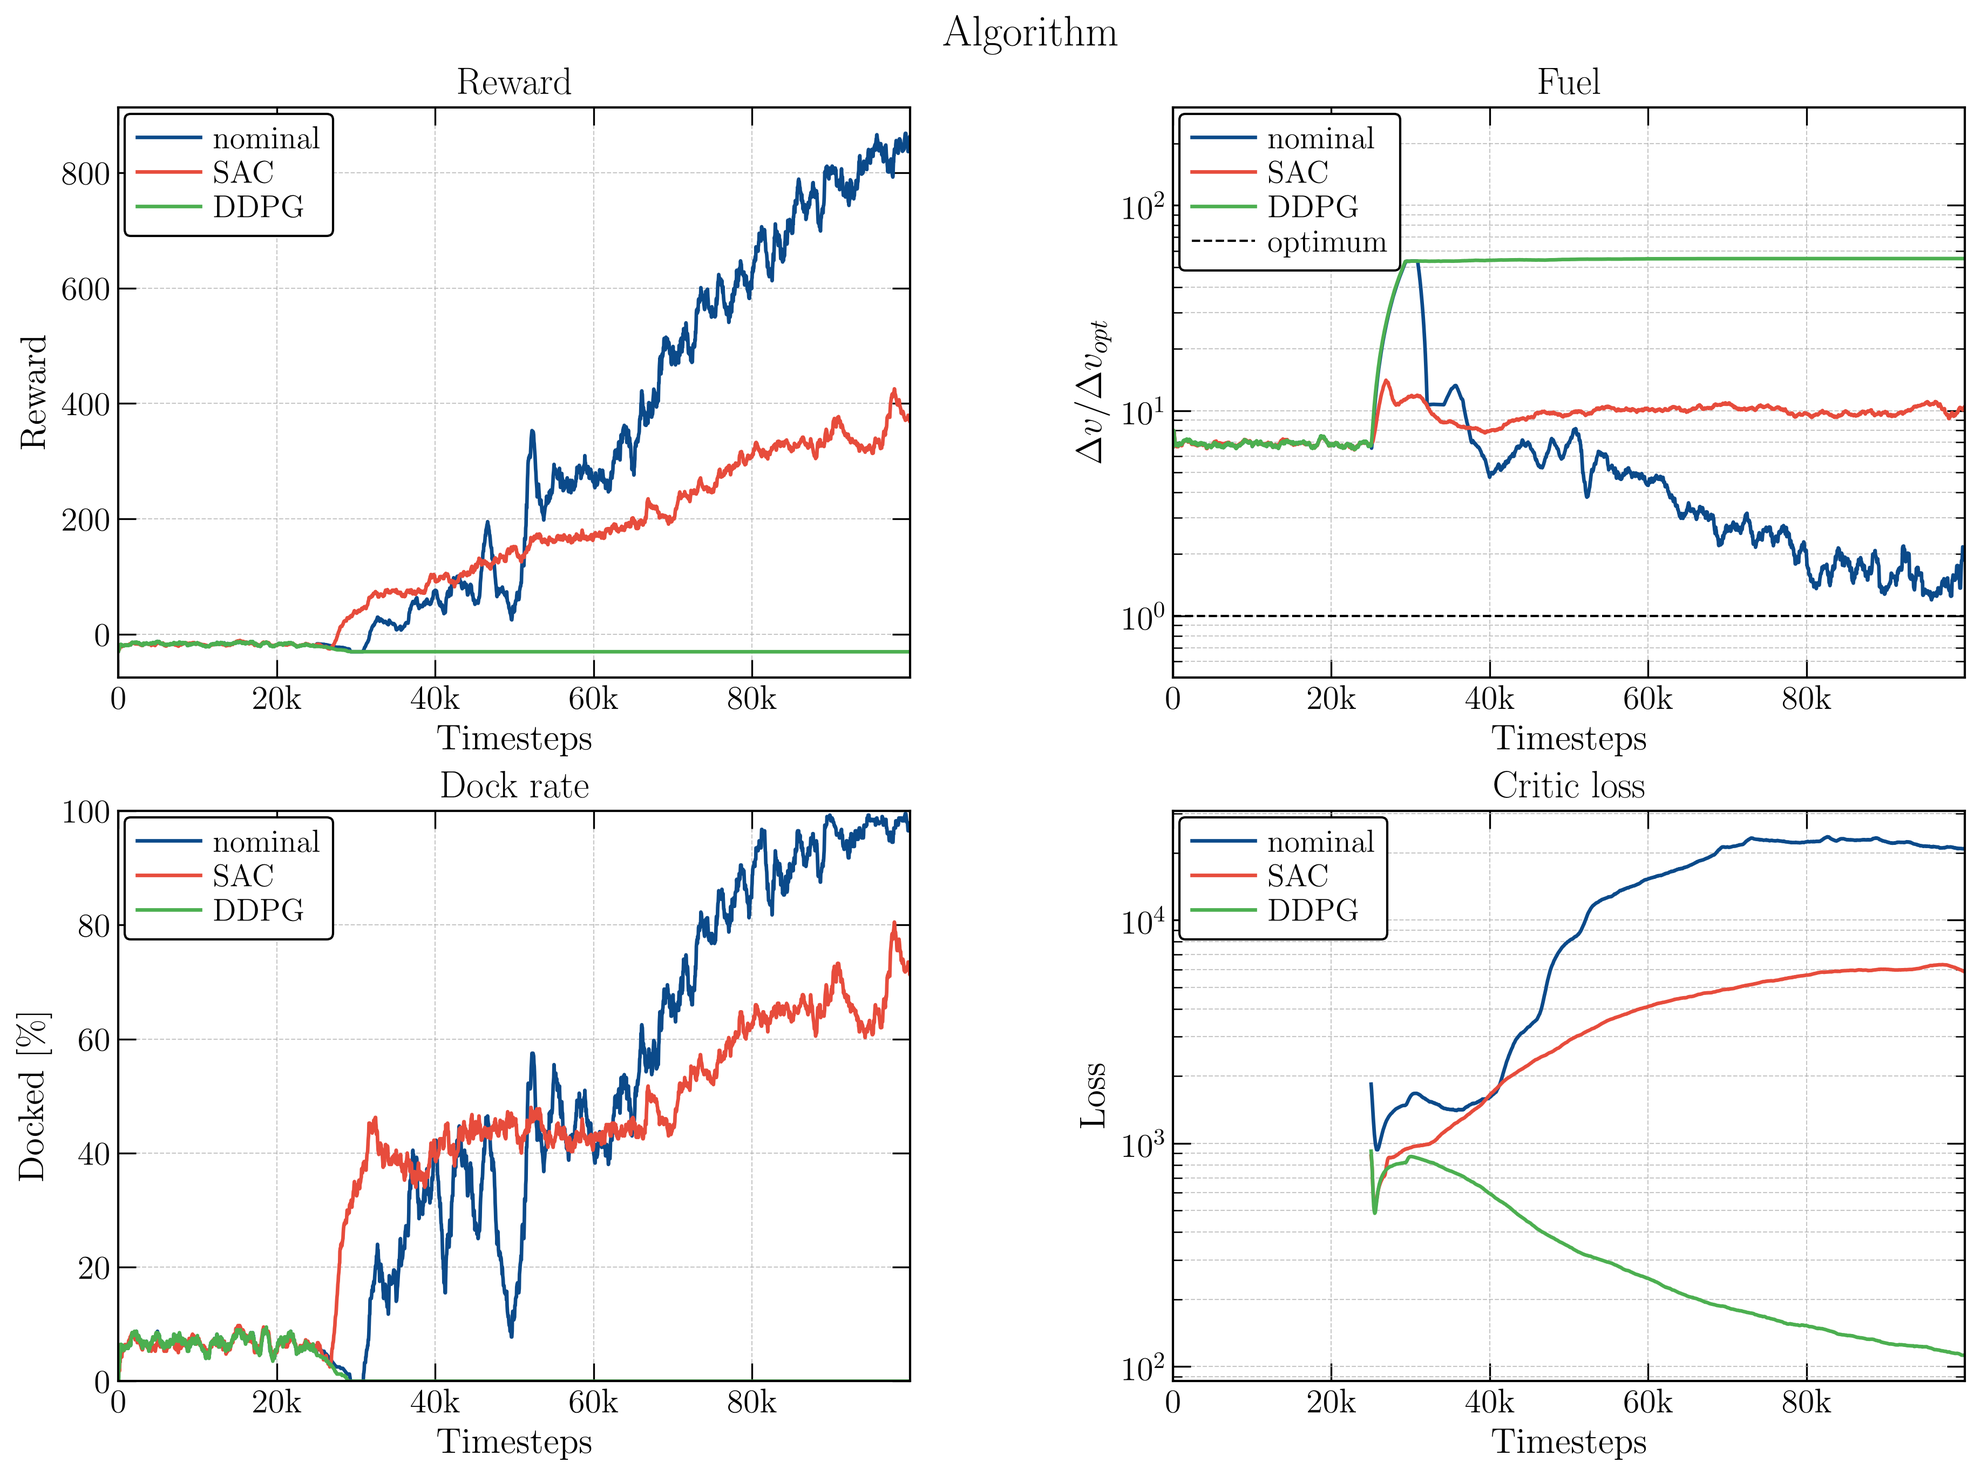
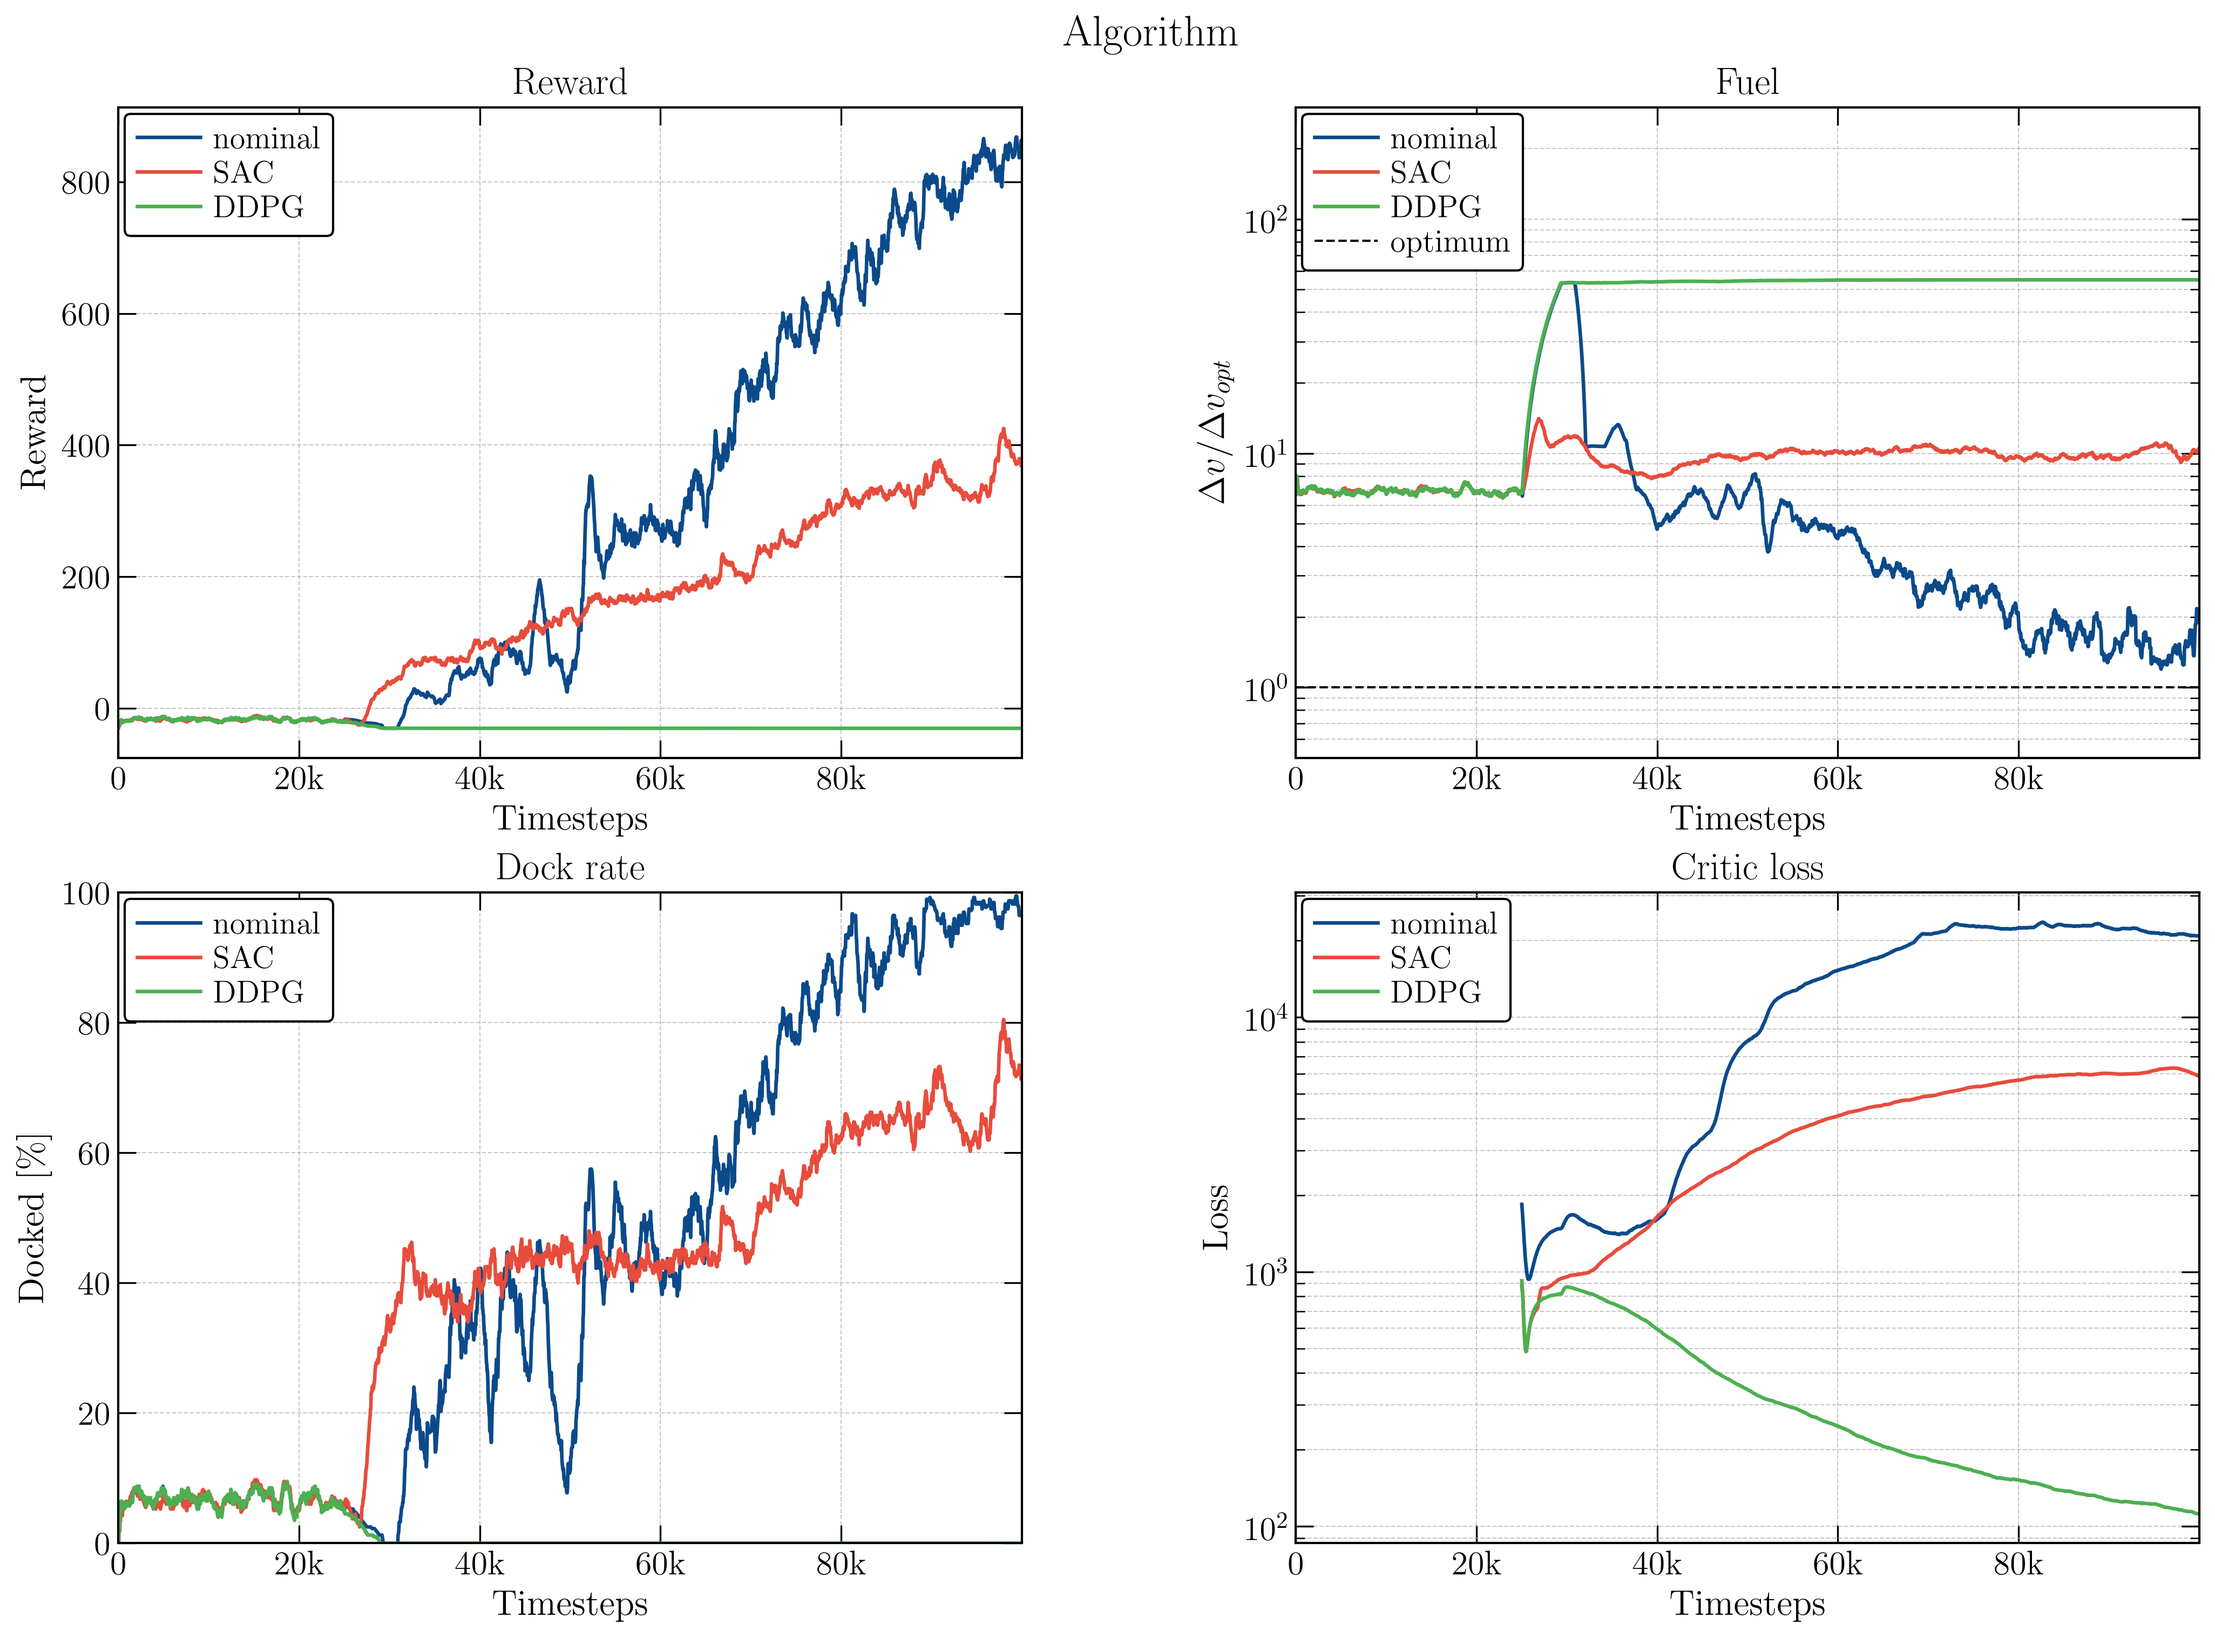
Enlarge the ablation figures to 14.5x10 inches
Font sizes are pinned in rcParams, so a larger canvas buys panel area rather
than bigger text: the labels take a smaller share of each panel and the
curves get more room. Extracted as a FIGSIZE constant since it is now tuned
rather than incidental.

diff --git a/scripts/plot_ablations.py b/scripts/plot_ablations.py
@@ -76,6 +76,9 @@ GROUPS = {
 
 MAX_POINTS = 3000
 BOX_ASPECT = 0.72      # identical for all four panels, per the spec
+# Font sizes are fixed in rcParams, so a larger figure buys panel area rather
+# than bigger text -- the labels get relatively smaller and the curves clearer.
+FIGSIZE = (14.5, 10.0)
 
 
 def rolling_nanmean(y, window):
@@ -175,7 +178,7 @@ def make_figure(group, window, out_dir):
         print(f"  {group:<12} SKIPPED (need 2 runs, have {len(loaded)})")
         return None
 
-    fig, axes = plt.subplots(2, 2, figsize=(13.0, 9.0))
+    fig, axes = plt.subplots(2, 2, figsize=FIGSIZE)
     (ax_r, ax_dv), (ax_dk, ax_cl) = axes
 
     variant = iter(VARIANT_COLORS)
